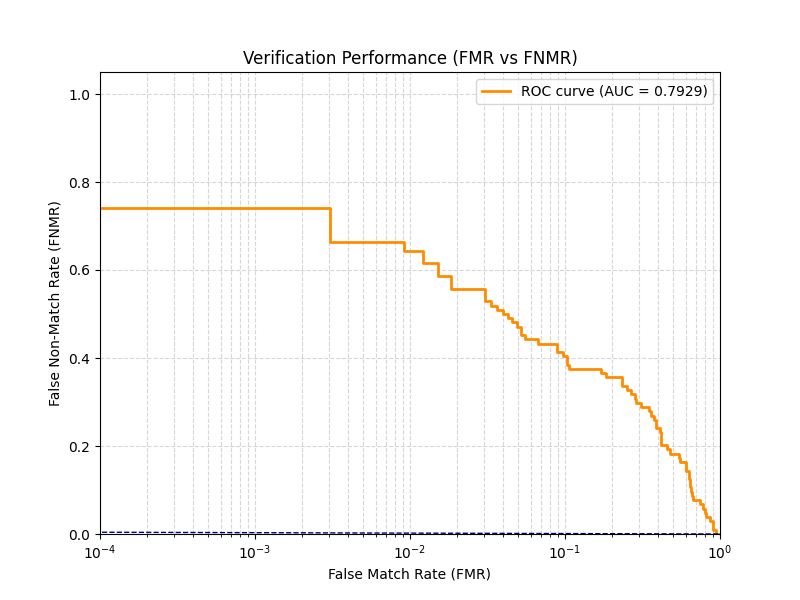
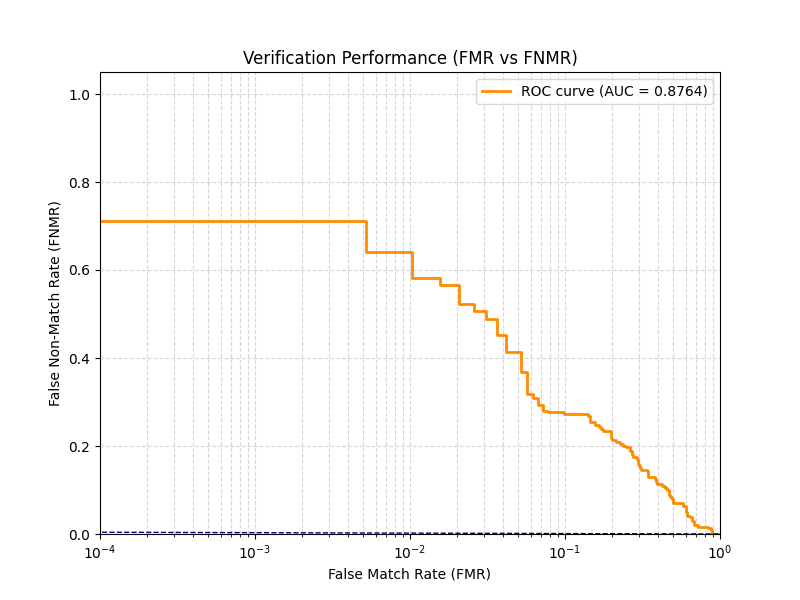
change normalization to bilinear; change feature encoding using abs value; print errors

diff --git a/src/FeatureExtraction.py b/src/FeatureExtraction.py
@@ -19,22 +19,27 @@ def _create_spatial_filter(size: int, delta_x: float, delta_y: float, freq: floa
     return kernel - np.mean(kernel)
 
 def extract_features(enhanced_img: np.ndarray, config=None) -> np.ndarray:
+    roi = enhanced_img[0:48, :]
 
-    roi = enhanced_img[10:58, :]
-    
-    filter_1 = _create_spatial_filter(size=15, delta_x=3.0, delta_y=1.5, freq=1/6.0)
-    filter_2 = _create_spatial_filter(size=15, delta_x=4.5, delta_y=1.5, freq=1/6.0)
-    
+    filter_1 = _create_spatial_filter(15, 3.0, 1.5, 1/6.0)
+    filter_2 = _create_spatial_filter(15, 4.5, 1.5, 1/6.0)
+
     f1 = cv2.filter2D(roi, cv2.CV_32F, filter_1)
     f2 = cv2.filter2D(roi, cv2.CV_32F, filter_2)
-    
+
     features = []
+
     for i in range(0, 48, 8):
         for j in range(0, 512, 8):
             for block in [f1[i:i+8, j:j+8], f2[i:i+8, j:j+8]]:
-                mean = np.mean(block)
-                # Mean Absolute Deviation (MAD)
-                mad = np.mean(np.abs(block - mean))
+                mag = np.abs(block)
+                mean = np.mean(mag)
+                mad = np.mean(np.abs(mag - mean))
                 features.extend([mean, mad])
-                
-    return np.array(features)
+
+    features = np.array(features)
+
+    # Normalize
+    features = (features - np.mean(features)) / (np.std(features) + 1e-6)
+
+    return features

diff --git a/src/IrisNormalization.py b/src/IrisNormalization.py
@@ -13,6 +13,17 @@ KEY VARIABLES:
 import cv2
 import numpy as np
 
+def bilinear(img, x, y):
+    x0, y0 = int(x), int(y)
+    x1, y1 = min(x0+1, img.shape[1]-1), min(y0+1, img.shape[0]-1)
+
+    dx, dy = x - x0, y - y0
+
+    val = (1-dx)*(1-dy)*img[y0,x0] + dx*(1-dy)*img[y0,x1] + \
+          (1-dx)*dy*img[y1,x0] + dx*dy*img[y1,x1]
+
+    return int(val)
+
 def normalize_iris(img: np.ndarray, pupil_params: tuple, iris_params: tuple, cfg: dict) -> np.ndarray:
     radial_res = cfg.get('radial_res', 64)
     angular_res = cfg.get('angular_res', 512)
@@ -33,13 +44,12 @@ def normalize_iris(img: np.ndarray, pupil_params: tuple, iris_params: tuple, cfg
 
     for j in range(angular_res):
         for i in range(radial_res):
-            r = i / radial_res
+            r = i / (radial_res - 1)
 
             curr_x = (1 - r) * x_p[j] + r * x_i[j]
             curr_y = (1 - r) * y_p[j] + r * y_i[j]
-            
-            if 0 <= curr_x < img.shape[1]-1 and 0 <= curr_y < img.shape[0]-1:
 
-                norm_img[i, j] = img[int(curr_y), int(curr_x)]
+            if 0 <= curr_x < img.shape[1]-1 and 0 <= curr_y < img.shape[0]-1:
+                norm_img[i, j] = bilinear(img, curr_x, curr_y)
                 
     return norm_img

diff --git a/src/ImageEnhancement.py b/src/ImageEnhancement.py
@@ -23,7 +23,10 @@ def enhance_image(norm_img: np.ndarray) -> np.ndarray:
     bg_illumination = cv2.resize(coarse_bg, (N, M), interpolation=cv2.INTER_CUBIC)
     
     # Subtract to compensate for lighting [cite: 288]
-    corrected_img = cv2.subtract(norm_img, bg_illumination.astype(np.uint8))
+    corrected_img = cv2.normalize(
+        norm_img.astype(np.float32) - bg_illumination,
+        None, 0, 255, cv2.NORM_MINMAX
+    ).astype(np.uint8)
     
     # 2. Contrast enhancement
     # Histogram equalization in 32x32 regions (CLAHE is a modern standard equivalent) [cite: 289]

diff --git a/src/main.py b/src/main.py
@@ -92,7 +92,8 @@ def main():
                         train_feats.append(feat); train_labels.append(subject)
                     else:
                         test_feats.append(feat); test_labels.append(subject)
-                except: continue
+                except Exception as e:
+                    print(f"[ERROR] {img_file}: {e}")
 
     X_train, y_train = np.array(train_feats), np.array(train_labels)
     X_test, y_test = np.array(test_feats), np.array(test_labels)
